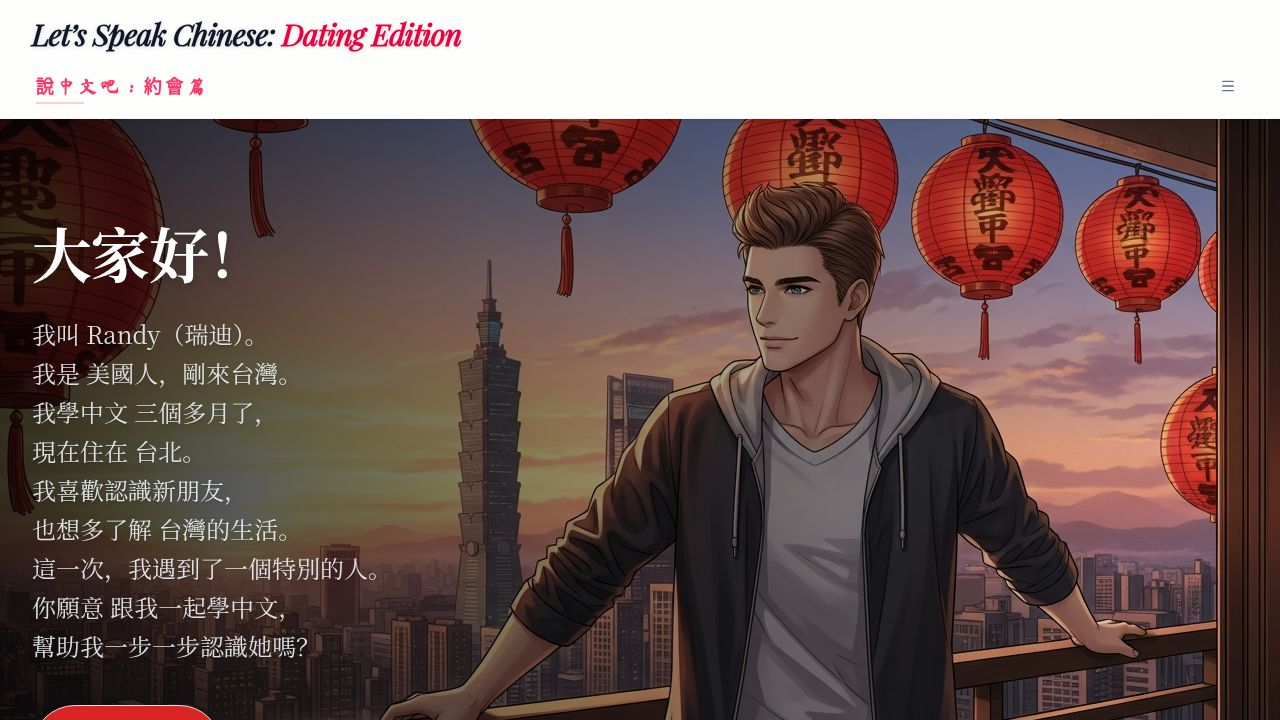
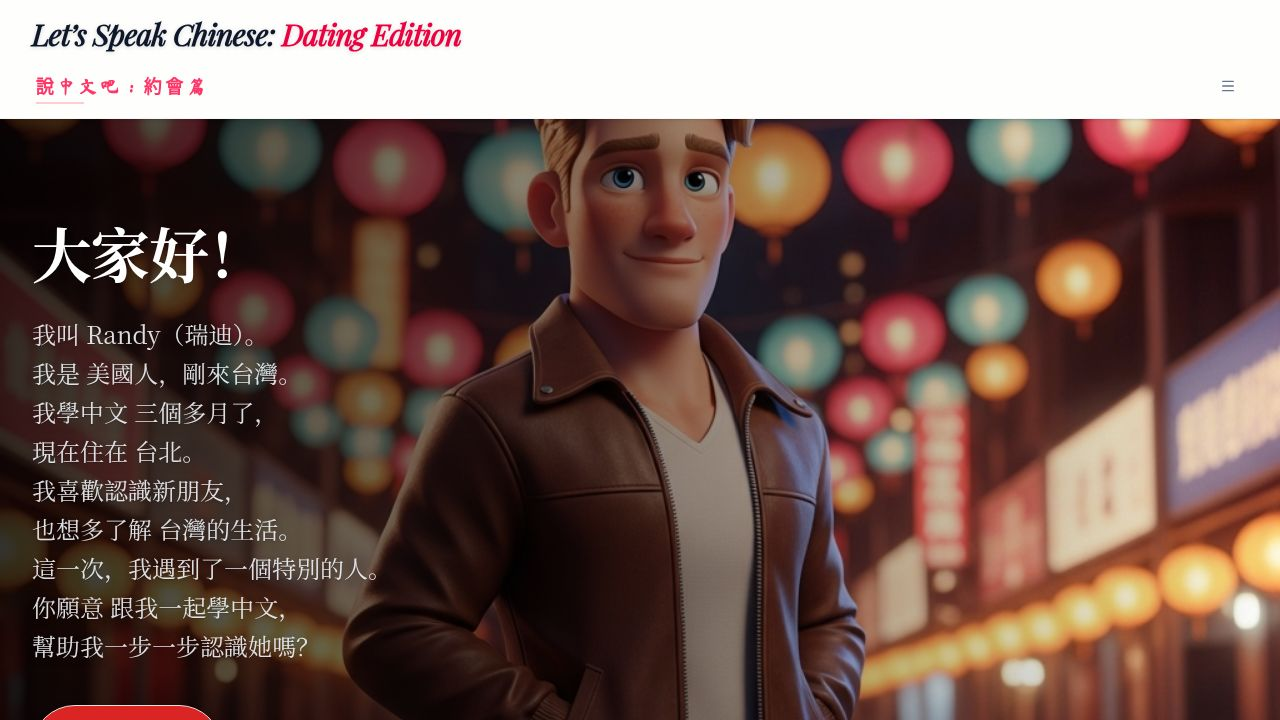
Update homepage hero section and adjust character positioning
Update client/src/pages/home.tsx to use a new hero background image,

Replit-Commit-Author: Agent
Replit-Commit-Session-Id: f5517adb-6271-45bf-8a5d-8714c1532456
Replit-Commit-Checkpoint-Type: full_checkpoint
Replit-Commit-Event-Id: 563ff2c9-42c6-40bb-8be9-02da9ad6b70a
Replit-Commit-Screenshot-Url: https://storage.googleapis.com/screenshot-production-us-central1/5dcf2843-d3e7-4715-9185-db667d82b80a/f5517adb-6271-45bf-8a5d-8714c1532456/HwehgGS
Replit-Helium-Checkpoint-Created: true

diff --git a/client/src/pages/home.tsx b/client/src/pages/home.tsx
@@ -21,7 +21,7 @@ import { Card } from "@/components/ui/card";
 import { Progress } from "@/components/ui/progress";
 import { Badge } from "@/components/ui/badge";
 import { Tabs, TabsContent, TabsList, TabsTrigger } from "@/components/ui/tabs";
-import heroBackground from "@/assets/generated_images/handsome_reddy_taipei_hero.png";
+import heroBackground from "@/assets/generated_images/handsome_reddy_taipei_hero_v3.png";
 import appLogo from "@/assets/generated_images/app_logo.png";
 import chineseCulturalBg from "@assets/generated_images/light_chinese_lanterns_architecture_background.png";
 import { type Language, getTranslations } from "@/lib/i18n";
